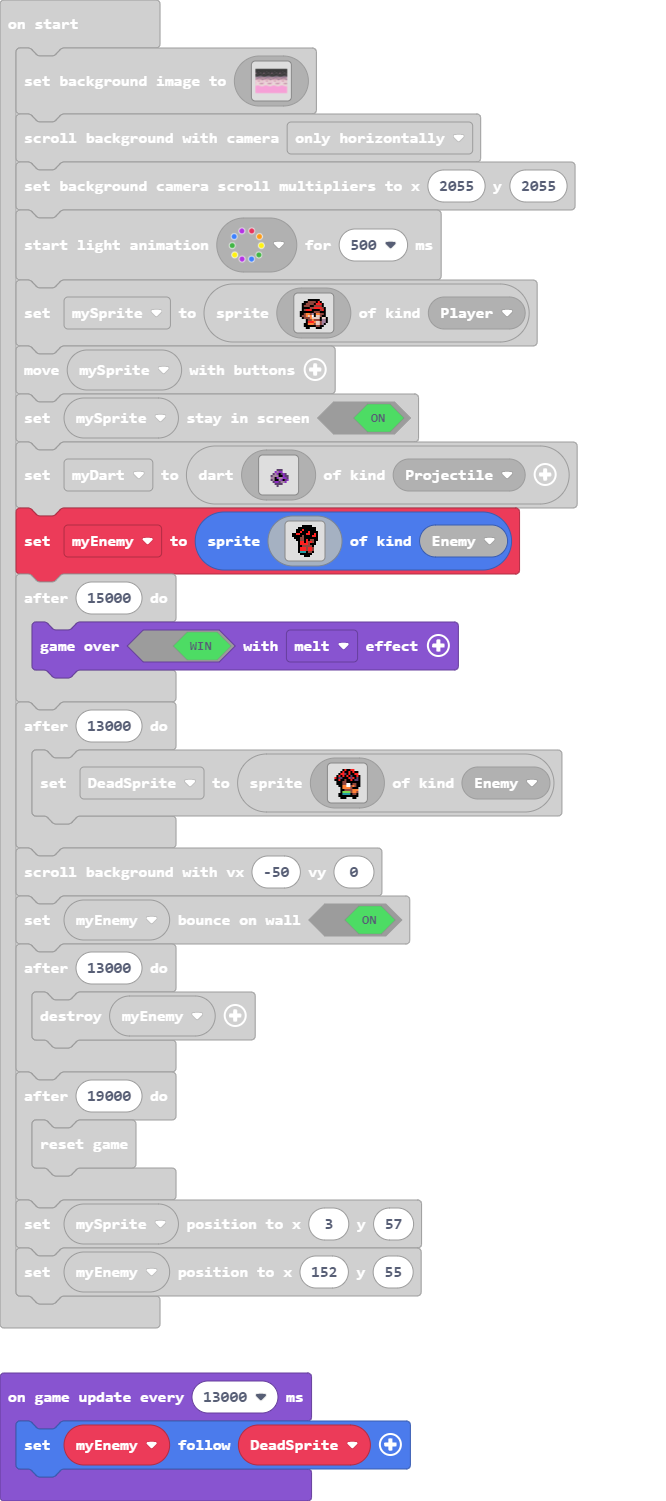
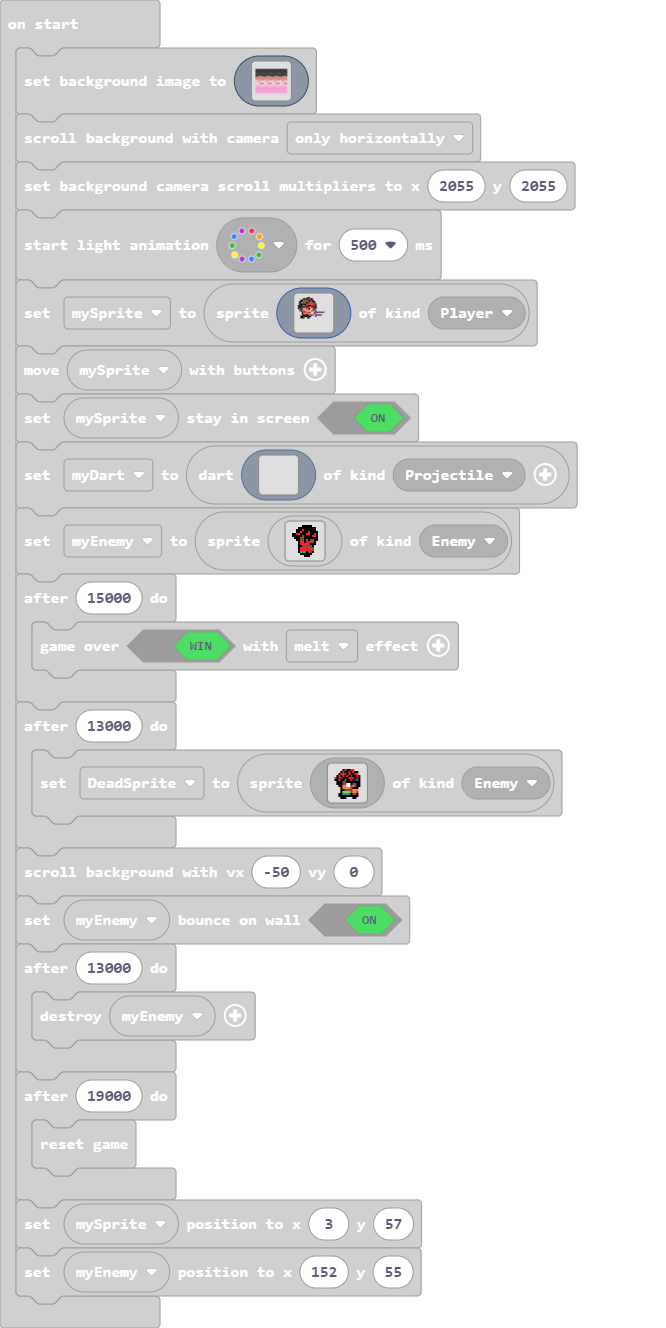
Even MORE sprite changes because i cannot decided on one :,)

diff --git a/main.ts b/main.ts
@@ -118,34 +118,34 @@ scene.setBackgroundImage(img`
     ffffffffffffffffffffffffffffffffffffffffffffffffffffffffffffffffffffffffffffffffffffffffffffffffffffffffffffffffffffffffffffffffffffffffffffffffffffffffffffffff
     ffffffffffffffffffffffffffffffffffffffffffffffffffffffffffffffffffffffffffffffffffffffffffffffffffffffffffffffffffffffffffffffffffffffffffffffffffffffffffffffff
     ffffffccfffffcffffffffffffffffffffffffffffffffccfffffcffffffffffffffffffffffffffffffffccfffffcffffffffffffffffffffffffffffffffccfffffcffffffffffffffffffffffffff
-    ffffffccfffffffffffffcccccccccccffffffffffffffccfffffffffffffcccccccccccffffffffffffffccfffffffffffffcccccccccccffffffffffffffccfffffffffffffcccccccccccffffffff
-    ffffffffffffffffccccccccccccccccccccffffffffffffffffffffccccccccccccccccccccffffffffffffffffffffccccccccccccccccccccffffffffffffffffffffccccccccccccccccccccffff
-    fffffffffffffccccccccccccccccccccccccccffffffffffffffccccccccccccccccccccccccccffffffffffffffccccccccccccccccccccccccccffffffffffffffccccccccccccccccccccccccccf
-    ccfffffffffcccccccccccccccccccccccccccccccfffffffffcccccccccccccccccccccccccccccccfffffffffcccccccccccccccccccccccccccccccfffffffffccccccccccccccccccccccccccccc
-    cccccccccccccccccccccccccccccccccccccccccccccccccccccccccccccccccccccccccccccccccccccccccccccccccccccccccccccccccccccccccccccccccccccccccccccccccccccccccccccccc
-    cccccccccccccccccccccccccccccccccccccccccccccccccccccccccccccccccccccccccccccccccccccccccccccccccccccccccccccccccccccccccccccccccccccccccccccccccccccccccccccccc
-    bbbbbbbbbbbbccccccccccccccccccccbbbbbbbbbbbbbbbbbbbbccccccccccccccccccccbbbbbbbbbbbbbbbbbbbbccccccccccccccccccccbbbbbbbbbbbbbbbbbbbbccccccccccccccccccccbbbbbbbb
-    bbbbbbbbbbbbbbbbbccccccccccbbbbbbbbbbbbbbbbbbbbbbbbbbbbbbccccccccccbbbbbbbbbbbbbbbbbbbbbbbbbbbbbbccccccccccbbbbbbbbbbbbbbbbbbbbbbbbbbbbbbccccccccccbbbbbbbbbbbbb
[4 lines of base64/hex data omitted]
+    4444444444444444444444444444444444444444444444444444444444444444444444444444444444444444444444444444444444444444444444444444444444444444444444444444444444444444
+    4444444444444444444444444444444444444444444444444444444444444444444444444444444444444444444444444444444444444444444444444444444444444444444444444444444444444444
[5 lines of base64/hex data omitted]
-    bbbbbbbcccbbbbbcccbbbbbbbbccccbbbbbbbbbbbbbbbbbcccbbbbbcccbbbbbbbbccccbbbbbbbbbbbbbbbbbcccbbbbbcccbbbbbbbbccccbbbbbbbbbbbbbbbbbcccbbbbbcccbbbbbbbbccccbbbbbbbbbb
[5 lines of base64/hex data omitted]
-    cbbbbbbbbbbbbbbbbbbbbbbbbbbbbbbbcccccccccbbbbbbbbbbbbbbbbbbbbbbbbbbbbbbbcccccccccbbbbbbbbbbbbbbbbbbbbbbbbbbbbbbbcccccccccbbbbbbbbbbbbbbbbbbbbbbbbbbbbbbbcccccccc
[17 lines of base64/hex data omitted]
-    ddddddddddddbbbbbbbbbbbbbbddddddddddddddddddddddddddbbbbbbbbbbbbbbddddddddddddddddddddddddddbbbbbbbbbbbbbbddddddddddddddddddddddddddbbbbbbbbbbbbbbdddddddddddddd
[9 lines of base64/hex data omitted]
@@ -153,12 +153,12 @@ scene.setBackgroundImage(img`
[15 lines of base64/hex data omitted]
     dddddddddddddddddddddddddddddddddddddddddddddddddddddddddddddddddddddddddddddddddddddddddddddddddddddddddddddddddddddddddddddddddddddddddddddddddddddddddddddddd
     dddddddddddddddddddddddddddddddddddddddddddddddddddddddddddddddddddddddddddddddddddddddddddddddddddddddddddddddddddddddddddddddddddddddddddddddddddddddddddddddd
     dddddddddddddddddddddddddddddddddddddddddddddddddddddddddddddddddddddddddddddddddddddddddddddddddddddddddddddddddddddddddddddddddddddddddddddddddddddddddddddddd
@@ -208,22 +208,30 @@ scroller.scrollBackgroundWithCamera(scroller.CameraScrollMode.OnlyHorizontal)
 scroller.setCameraScrollingMultipliers(2055, 2055)
 controller.startLightAnimation(light.rainbowAnimation, 500)
 mySprite = sprites.create(img`
-    . . . . . . . . . . . . . . . . 
-    . . . . . f f f f f f . . . . . 
-    . . . f f e e e e f 2 f . . . . 
-    . . f f e e e e f 2 2 2 f . . . 
-    . . f e e e f f e e e e f . . . 
-    . . f f f f e e 2 2 2 2 e f . . 
-    . . f e 2 2 2 f f f f e 2 f . . 
-    . f f f f f f f e e e f f f . . 
-    . f f e 4 4 e b f 4 4 e e f . . 
-    . f e e 4 d 4 1 f d d e f f . . 
-    . . f e e e 4 d d d d f d d f . 
-    . . . . f e e 4 e e e f b b f . 
-    . . . . f 2 2 2 4 d d e b b f . 
-    . . . f f 4 4 4 e d d e b f . . 
-    . . . f f f f f f e e f f . . . 
-    . . . . f f . . . f f f . . . . 
+    .......ff...............
+    ....ffff2ff.............
+    ..ffeeeef2ff............
+    .ffeeeeef22ff...........
+    .feeeeffeeeef...........
+    .fffffee2222ef..........
+    fffe222ffffe2f..........
+    ffffffffeeefff..........
+    fefe44ebf44eef..........
+    .fee4d4bfddef...........
+    ..feee4dddee.c..........
+    ...f2222eeddeccccccc....
+    ...f444e44ddecddddd.....
+    ...fffffeeee.ccccc......
+    ..ffffffff...c..........
+    ..fff..ff...............
+    ........................
+    ........................
+    ........................
+    ........................
+    ........................
+    ........................
+    ........................
+    ........................
     `, SpriteKind.Player)
 controller.moveSprite(mySprite)
 mySprite.setStayInScreen(true)
@@ -233,15 +241,15 @@ let myDart = darts.create(img`
     . . . . . . . . . . . . . . . . 
     . . . . . . . . . . . . . . . . 
     . . . . . . . . . . . . . . . . 
-    . . . . . . . c c c . . . . . . 
-    . . . . . . a b a a . . . . . . 
-    . . . . . c b a f c a c . . . . 
-    . . . . c b b b f f a c c . . . 
-    . . . . b b f a b b a a c . . . 
-    . . . . c b f f b a f c a . . . 
-    . . . . . c a a c b b a . . . . 
-    . . . . . . c c c c . . . . . . 
-    . . . . . . . c . . . . . . . . 
+    . . . . . . . . . . . . . . . . 
+    . . . . . . . . . . . . . . . . 
+    . . . . . . . . . . . . . . . . 
+    . . . . . . . . . . . . . . . . 
+    . . . . . . . . . . . . . . . . 
+    . . . . . . . . . . . . . . . . 
+    . . . . . . . . . . . . . . . . 
+    . . . . . . . . . . . . . . . . 
+    . . . . . . . . . . . . . . . . 
     . . . . . . . . . . . . . . . . 
     . . . . . . . . . . . . . . . . 
     `, SpriteKind.Projectile)
